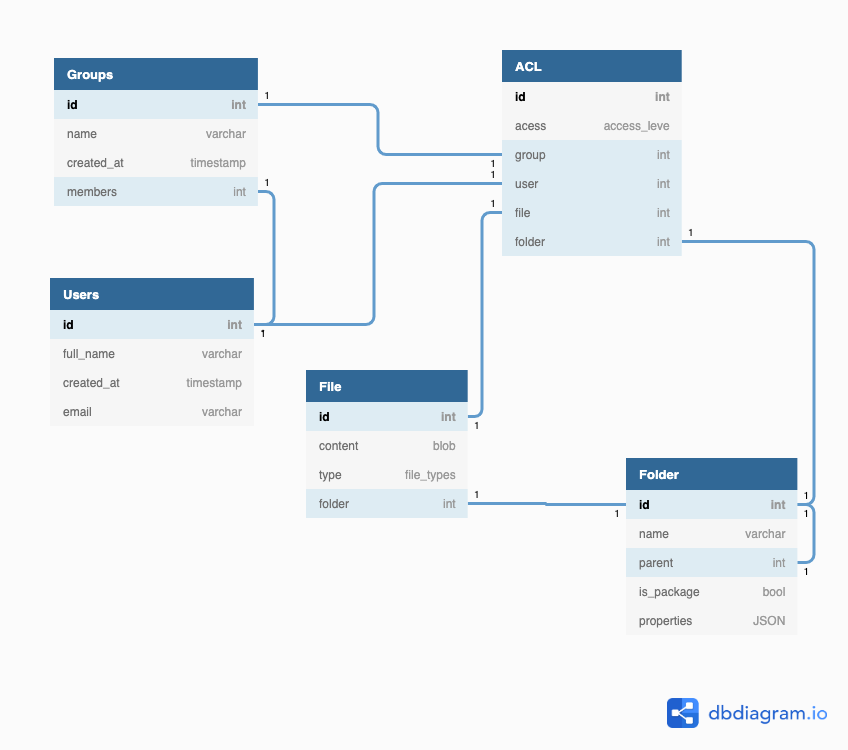
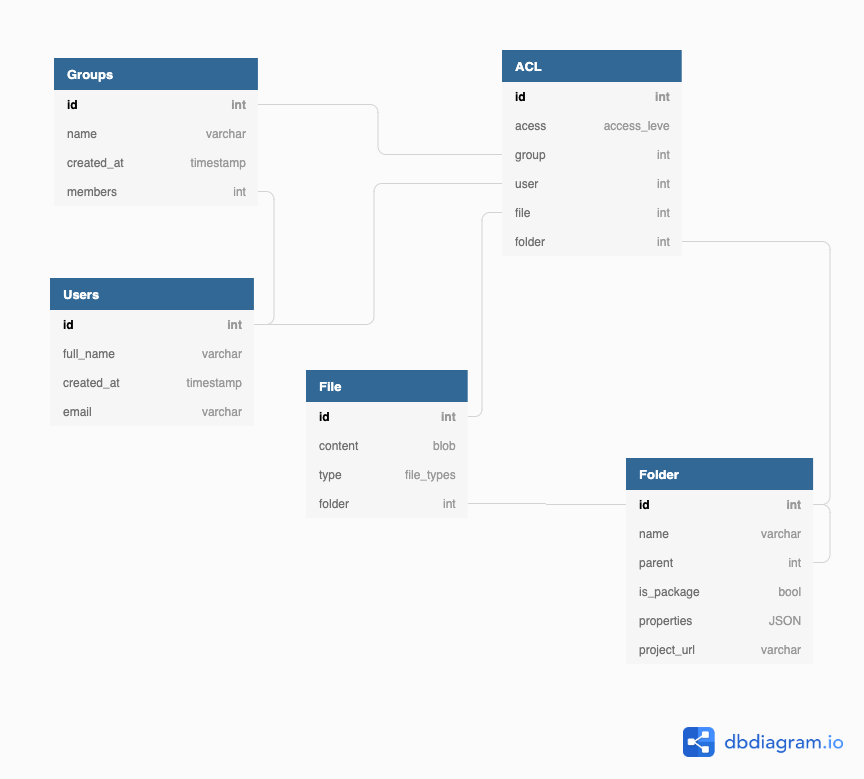
Some bvasic design descisions added

Changed region(s): [[0.0613, 0.0613, 0.9811, 0.8587], [0.7665, 0.92, 0.9811, 0.9813], [0.4292, 0.2453, 0.4599, 0.4293]]

diff --git a/README.md b/README.md
@@ -16,6 +16,31 @@ I opted to use relational database to allow rapid development using Django, and 
 
 ![data model](https://github.com/adam-grandt-tts/data-driven-acquisition/blob/master/docs/images/data_model.png)
 
+Design concepts:
+
+- Files will be kept inside a PostgreSQL blob
+  - Documents will be represented in Markdown. TODO: selected markdown editor and link here.
+  - Sheets will be represented in a JSON string defined by the javascript sheet editor. TODO: Select a sheet editor and link here.
+  - Other document will be saves as binary blobs and will not be editable.
+  - Each file can belong to one folder
+  - We will use HTML comment notation to insert and update properties in all editable files like so for a property named 'name':
+
+    ```html
+    <!--PROPERTY:name-->Value of name goes here<!--/PROPERTY:name-->
+    ```
+
+- A Folder object contains files.
+  - Folders can have have other folders as parents.
+  - If folder dose not have a parent folder it will be considered a package.
+  - Packages are folders that wil have the following attribute enabled:
+    - The project URL of the trello board.
+    - The properties JSON array that will include all configured properties for this package.
+- Access control is managed vua the ACL table.
+  - An ACL item connects a User or Group to a document or a Folder with a defined access level.
+  - Access should be propagated down, that is to say, if a User has access to a folder they should also have access to all sub folders and document in those folders.
+  - A user will be presented with all items that he has any access to upon login.
+
+
 ## Quickstart
 
 1. Database Setup
